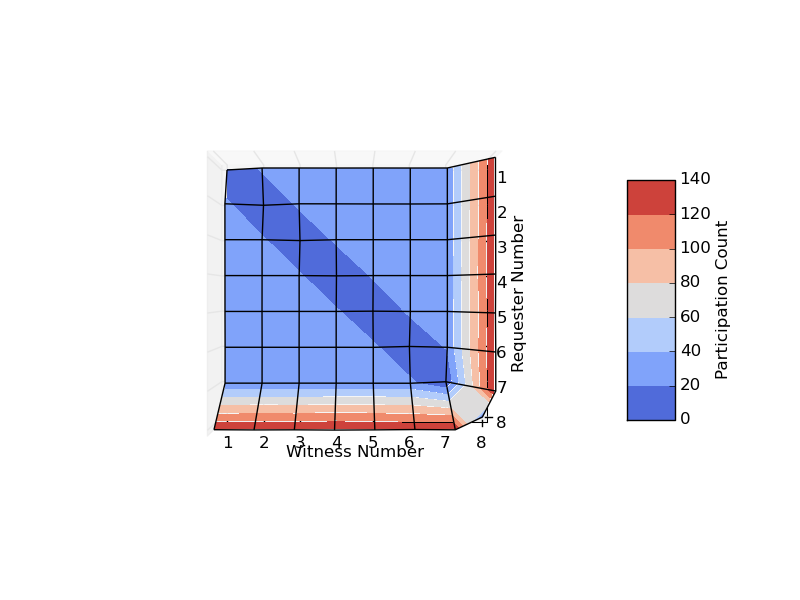
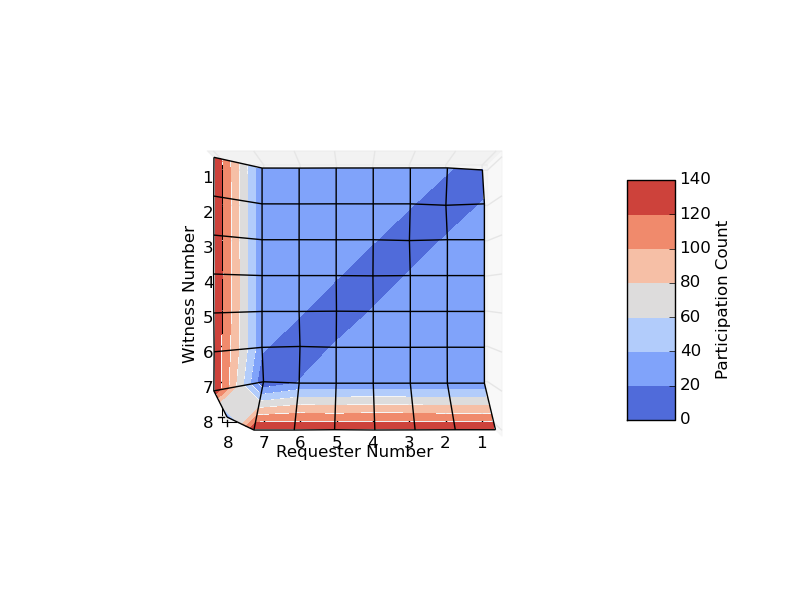
rotated

Changed region(s): [[0.2188, 0.24, 0.6562, 0.78]]

diff --git a/plotWitnessInformation.py b/plotWitnessInformation.py
@@ -16,7 +16,7 @@ for i in range(0,21,1):
         axes = plt.gca()
         axes.set_xlim([1, 8])
         axes.set_ylim([1, 8])
-        ax.view_init(elev=90, azim=0)
+        ax.view_init(elev=90, azim=90)
         X = numpy.arange(1,sellerCount+1)
         Y = numpy.arange(1,sellerCount+1)
         X, Y = numpy.meshgrid(X, Y)
